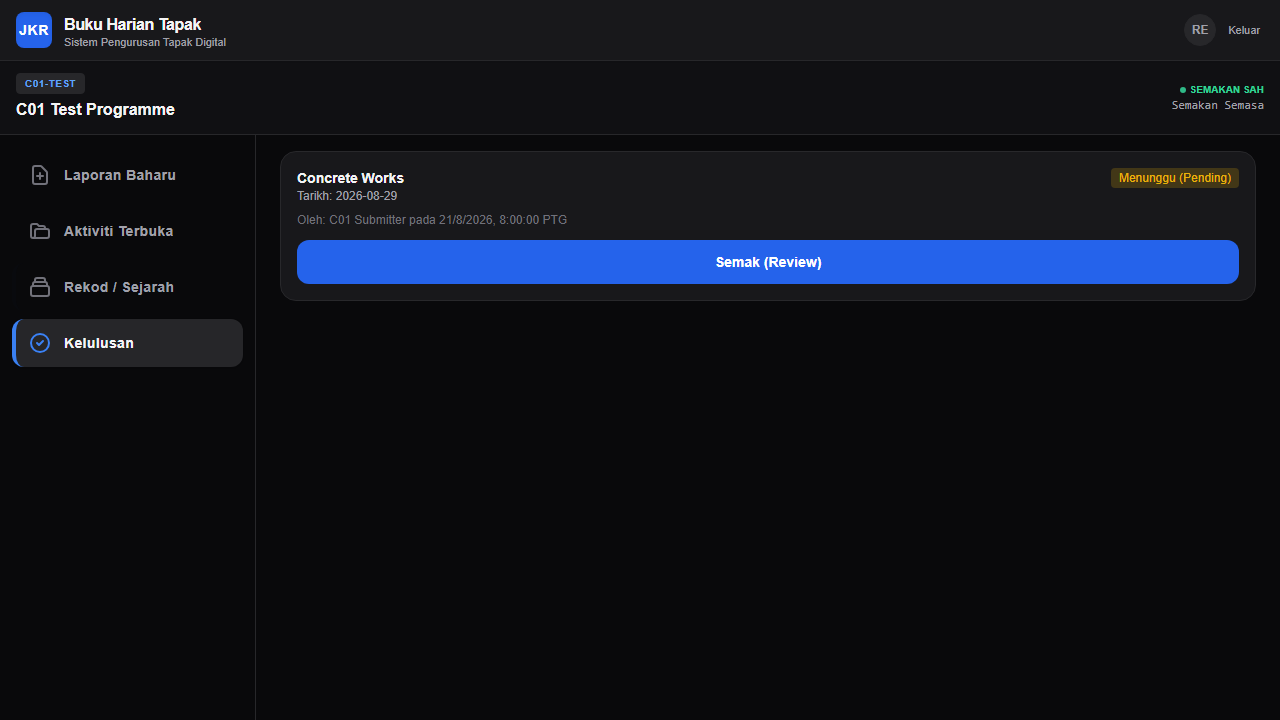
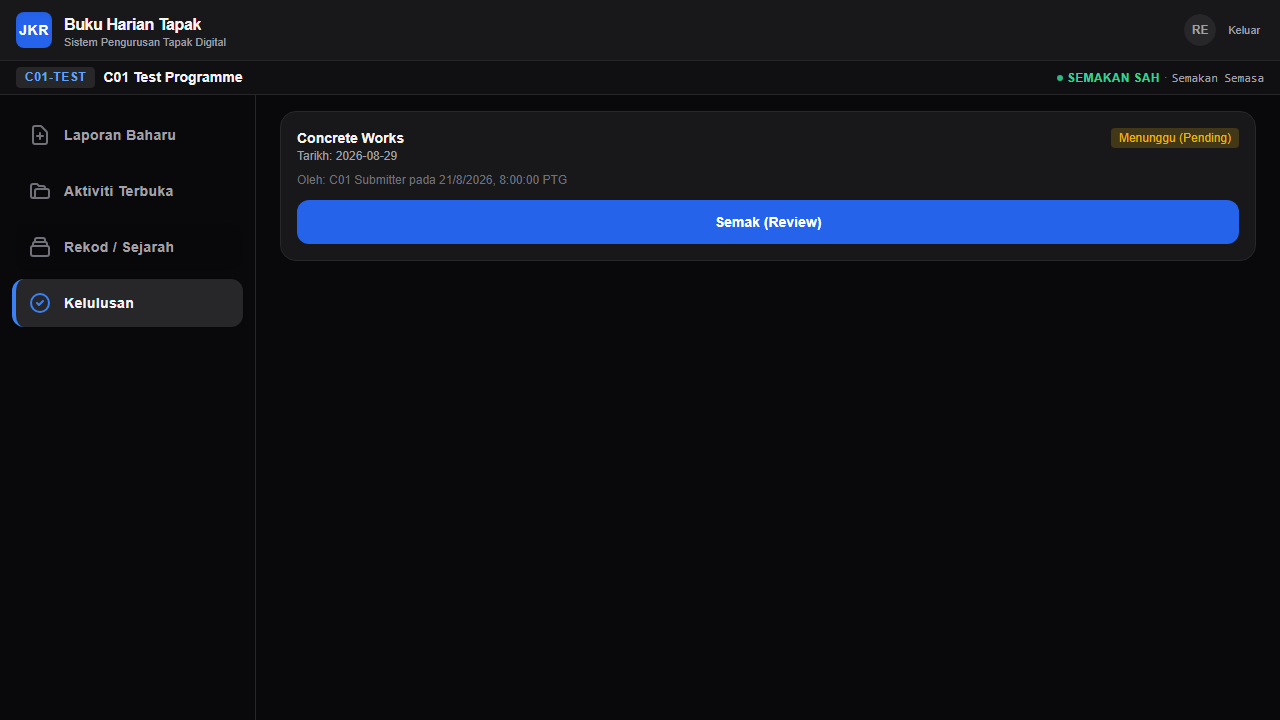
F4.5-B01B.1: refine tactical shell density and interaction states

Changed region(s): [[0.2188, 0.0917, 1.0, 0.3972], [0.0, 0.3056, 0.1875, 0.5194], [0.0, 0.0917, 0.1875, 0.275]]

diff --git a/src/app/site-diary/DailyEntryShell.tsx b/src/app/site-diary/DailyEntryShell.tsx
@@ -292,79 +292,61 @@ export default function DailyEntryShell({
 
         {/* Dynamic Project & Active Revision Context Header (when programme is selected) */}
         {programmeId && (
-          <div className="shrink-0 w-full bg-surface-primary/50 border-b border-surface-border px-4 py-3">
-            <div className="mx-auto w-full flex flex-col sm:flex-row sm:items-center justify-between gap-2.5">
-              <div className="min-w-0 flex-1">
-                <div className="flex items-center gap-2">
-                  <span className="text-[10px] font-bold uppercase tracking-wider text-tactical-state-pending bg-surface-raised border border-surface-border px-2 py-0.5 rounded">
-                    {programmeCode || 'Program Aktif'}
-                  </span>
-                  {availableProgrammes.length > 1 && (
-                    <button
-                      onClick={() => changeProgramme(null)}
-                      style={{ minHeight: 44 }}
-                      className="text-[10px] text-tactical-text-secondary hover:text-accent-operational underline transition-colors"
-                      title="Pilih projek lain"
-                    >
-                      Tukar Projek
-                    </button>
-                  )}
-                  {loading && (
-                    <span className="text-[11px] text-tactical-text-muted animate-pulse">
-                      Memuatkan...
-                    </span>
-                  )}
-                </div>
-                <h2 className="text-sm sm:text-base font-semibold text-tactical-text-primary truncate mt-1" title={programmeName || ''}>
+          <div className="shrink-0 w-full bg-surface-primary/50 border-b border-surface-border px-4 py-1.5">
+            <div className="mx-auto w-full flex flex-col sm:flex-row sm:items-center justify-between gap-1 sm:gap-2">
+              {/* Left: code + name on one tight row */}
+              <div className="min-w-0 flex-1 flex items-center gap-2 flex-wrap">
+                <span className="text-xs font-bold uppercase tracking-wider text-tactical-state-pending bg-surface-raised border border-surface-border px-2 py-0.5 rounded leading-tight shrink-0">
+                  {programmeCode || 'Program Aktif'}
+                </span>
+                <h2 className="text-sm font-semibold text-tactical-text-primary truncate leading-tight" title={programmeName || ''}>
                   {programmeName || 'Nama Program'}
                 </h2>
+                {availableProgrammes.length > 1 && (
+                  <button
+                    onClick={() => changeProgramme(null)}
+                    style={{ minHeight: 44 }}
+                    className="text-xs text-tactical-text-secondary hover:text-accent-operational underline transition-colors shrink-0"
+                    title="Pilih projek lain"
+                  >
+                    Tukar Projek
+                  </button>
+                )}
+                {loading && (
+                  <span className="text-xs text-tactical-text-muted animate-pulse">
+                    Memuatkan...
+                  </span>
+                )}
               </div>
 
-              {/* Authorised Revision badge */}
-              <div className="flex items-center gap-2 self-start sm:self-auto shrink-0">
-                <div className="flex flex-col items-start sm:items-end">
-                  {revisionState === 'RESOLVED' && revisionId && (
-                    <>
-                      <span className="text-[10px] uppercase font-bold text-tactical-state-valid flex items-center gap-1">
-                        <span className="w-1.5 h-1.5 rounded-full bg-tactical-state-valid animate-pulse"></span>
-                        Semakan Sah
-                      </span>
-                      <span className="text-xs font-mono text-tactical-text-secondary">Semakan Semasa</span>
-                    </>
-                  )}
-                  {revisionState === 'RESOLVING' && (
-                    <>
-                      <span className="text-[10px] uppercase font-bold text-tactical-text-secondary flex items-center gap-1">
-                        Memuatkan Semakan
-                      </span>
-                      <span className="text-xs font-mono text-tactical-text-muted animate-pulse">Sila tunggu...</span>
-                    </>
-                  )}
-                  {revisionState === 'UNAVAILABLE' && (
-                    <>
-                      <span className="text-[10px] uppercase font-bold text-tactical-text-muted flex items-center gap-1">
-                        Tidak Ditemui
-                      </span>
-                      <span className="text-xs font-mono text-tactical-text-muted">Tiada Semakan Sah</span>
-                    </>
-                  )}
-                  {revisionState === 'ERROR' && (
-                    <>
-                      <span className="text-[10px] uppercase font-bold text-tactical-state-destructive flex items-center gap-1">
-                        Ralat Semakan
-                      </span>
-                      <span className="text-xs font-mono text-tactical-state-destructive">Gagal Memuatkan</span>
-                    </>
-                  )}
-                  {revisionState === 'IDLE' && (
-                    <>
-                      <span className="text-[10px] uppercase font-bold text-tactical-text-muted flex items-center gap-1">
-                        Sedia
-                      </span>
-                      <span className="text-xs font-mono text-tactical-text-muted">-</span>
-                    </>
-                  )}
-                </div>
+              {/* Right: revision authority — always visible */}
+              <div className="shrink-0 flex items-center gap-1.5">
+                {revisionState === 'RESOLVED' && revisionId && (
+                  <span className="text-xs font-bold text-tactical-state-valid flex items-center gap-1">
+                    <span className="w-1.5 h-1.5 rounded-full bg-tactical-state-valid animate-pulse shrink-0"></span>
+                    <span className="uppercase tracking-wide">Semakan Sah</span>
+                    <span aria-hidden="true" className="text-tactical-text-muted font-normal">·</span>
+                    <span className="font-mono text-tactical-text-secondary font-normal">Semakan Semasa</span>
+                  </span>
+                )}
+                {revisionState === 'RESOLVING' && (
+                  <span className="text-xs font-bold text-tactical-text-secondary flex items-center gap-1">
+                    <span className="uppercase tracking-wide">Memuatkan Semakan</span>
+                  </span>
+                )}
+                {revisionState === 'UNAVAILABLE' && (
+                  <span className="text-xs font-bold text-tactical-text-muted flex items-center gap-1">
+                    <span className="uppercase tracking-wide">Tiada Semakan</span>
+                  </span>
+                )}
+                {revisionState === 'ERROR' && (
+                  <span className="text-xs font-bold text-tactical-state-destructive flex items-center gap-1">
+                    <span className="uppercase tracking-wide">Ralat Semakan</span>
+                  </span>
+                )}
+                {revisionState === 'IDLE' && (
+                  <span className="text-xs font-mono text-tactical-text-muted">—</span>
+                )}
               </div>
             </div>
           </div>

diff --git a/src/app/site-diary/DiaryManagementList.tsx b/src/app/site-diary/DiaryManagementList.tsx
@@ -215,8 +215,14 @@ export default function DiaryManagementList() {
   if (selectedDiary && programmeId) {
     return <div className="space-y-4">
       <div role="tablist" aria-label="Tukar konteks rekod dari butiran" className="grid grid-cols-2 gap-2 rounded-2xl border border-zinc-800 bg-zinc-900 p-2">
-        <button type="button" role="tab" aria-selected={viewMode === 'CURRENT'} onClick={chooseCurrent} className="min-h-[44px] rounded-xl bg-zinc-800 px-3 text-sm font-bold">Rekod Semasa</button>
-        <button type="button" role="tab" aria-selected={viewMode === 'HISTORY'} onClick={() => { setSelectedDiary(null); setViewMode('HISTORY'); }} className="min-h-[44px] rounded-xl bg-zinc-800 px-3 text-sm font-bold">Semakan Terdahulu</button>
+        <button type="button" role="tab" aria-selected={viewMode === 'CURRENT'} onClick={chooseCurrent}
+          className={`min-h-[44px] rounded-xl px-3 text-sm font-bold transition-colors ${viewMode === 'CURRENT' ? 'bg-accent-operational text-white' : 'bg-zinc-800 text-zinc-300'}`}>
+          Rekod Semasa
+        </button>
+        <button type="button" role="tab" aria-selected={viewMode === 'HISTORY'} onClick={() => { setSelectedDiary(null); setViewMode('HISTORY'); }}
+          className={`min-h-[44px] rounded-xl px-3 text-sm font-bold transition-colors ${viewMode === 'HISTORY' ? 'bg-accent-operational text-white' : 'bg-zinc-800 text-zinc-300'}`}>
+          Semakan Terdahulu
+        </button>
       </div>
       <DiaryDetail
         key={`${selectedDiary.siteDiaryId}-${detailRefresh}`}
@@ -233,12 +239,12 @@ export default function DiaryManagementList() {
       <div className="rounded-2xl border border-zinc-800 bg-zinc-900 p-4">
         <div role="tablist" aria-label="Konteks rekod" className="grid grid-cols-2 gap-2">
           <button type="button" role="tab" aria-selected={viewMode === 'CURRENT'} onClick={chooseCurrent}
-            className={`min-h-[44px] rounded-xl px-3 py-2 text-sm font-bold ${viewMode === 'CURRENT' ? 'bg-blue-600 text-white' : 'bg-zinc-800 text-zinc-300'}`}>
+            className={`min-h-[44px] rounded-xl px-3 py-2 text-sm font-bold transition-colors ${viewMode === 'CURRENT' ? 'bg-accent-operational text-white' : 'bg-zinc-800 text-zinc-300'}`}>
             Rekod Semasa
           </button>
           <button type="button" role="tab" aria-selected={viewMode === 'HISTORY'}
             onClick={() => { setSelectedDiary(null); setEditingSiteDiaryId(null); setViewMode('HISTORY'); }}
-            className={`min-h-[44px] rounded-xl px-3 py-2 text-sm font-bold ${viewMode === 'HISTORY' ? 'bg-amber-700 text-white' : 'bg-zinc-800 text-zinc-300'}`}>
+            className={`min-h-[44px] rounded-xl px-3 py-2 text-sm font-bold transition-colors ${viewMode === 'HISTORY' ? 'bg-accent-operational text-white' : 'bg-zinc-800 text-zinc-300'}`}>
             Semakan Terdahulu
           </button>
         </div>
@@ -352,7 +358,7 @@ export default function DiaryManagementList() {
             {viewMode === 'HISTORY' && selectedRevision && (
               <p className="mt-3 text-xs text-zinc-400">{revisionLabel(selectedRevision)} · {selectedRevision.revisionStatus}</p>
             )}
-            <p className="mt-3 text-[11px] text-zinc-500">Dikemaskini {formatTimestamp(diary.lastModifiedAt)}</p>
+            <p className="mt-3 text-xs text-zinc-500">Dikemaskini {formatTimestamp(diary.lastModifiedAt)}</p>
             <button type="button" onClick={() => setSelectedDiary(diary)}
               className="mt-3 min-h-[44px] w-full rounded-xl border border-zinc-700 px-3 text-sm font-bold text-blue-300">
               Lihat Butiran

diff --git a/src/app/site-diary/SiteDiaryWorkspace.tsx b/src/app/site-diary/SiteDiaryWorkspace.tsx
@@ -158,10 +158,10 @@ export default function SiteDiaryWorkspace() {
                 role="tab"
                 aria-selected={isSelected}
                 onClick={() => setTab(item.id)}
-                className={`w-full flex items-center p-3 rounded-xl transition-all duration-200 outline-none focus-visible:ring-2 focus-visible:ring-accent-selected ${
-                  isSelected 
-                    ? 'bg-surface-raised text-accent-selected border-l-4 border-accent-selected shadow-sm' 
-                    : 'text-tactical-text-secondary hover:bg-surface-primary hover:text-tactical-text-primary border-l-4 border-transparent'
+                className={`w-full flex items-center p-3 rounded-xl transition-all duration-200 outline-none focus-visible:ring-2 focus-visible:ring-accent-selected active:duration-75 ${
+                  isSelected
+                    ? 'bg-surface-raised text-accent-selected border-l-4 border-accent-selected shadow-sm active:bg-surface-interactive'
+                    : 'text-tactical-text-secondary hover:bg-surface-raised hover:text-tactical-text-primary border-l-4 border-transparent active:bg-surface-interactive'
                 }`}
                 title={item.label}
               >
@@ -198,14 +198,16 @@ export default function SiteDiaryWorkspace() {
                 role="tab"
                 aria-selected={isSelected}
                 onClick={() => setTab(item.id)}
-                className={`flex flex-col items-center justify-center flex-1 min-h-[56px] rounded-lg transition-all duration-200 ${
-                  isSelected ? 'text-accent-selected' : 'text-tactical-text-muted hover:text-tactical-text-secondary'
+                className={`flex flex-col items-center justify-center flex-1 min-h-[56px] rounded-lg transition-colors duration-150 motion-safe:active:scale-95 active:duration-75 ${
+                  isSelected
+                    ? 'bg-surface-raised text-accent-selected border-t-2 border-accent-selected'
+                    : 'text-tactical-text-muted hover:bg-surface-primary hover:text-tactical-text-secondary border-t-2 border-transparent'
                 }`}
               >
-                <div className={`mb-1 transition-transform ${isSelected ? 'scale-110' : ''}`}>
+                <div className={`mb-1 motion-safe:transition-transform motion-safe:duration-150 ${isSelected ? 'motion-safe:scale-110' : ''}`}>
                   {item.icon}
                 </div>
-                <span className={`text-[10px] font-bold tracking-tight ${isSelected ? 'text-tactical-text-primary' : ''}`}>
+                <span className={`text-xs font-bold tracking-tight ${isSelected ? 'text-tactical-text-primary' : ''}`}>
                   {item.label}
                 </span>
               </button>

diff --git a/F4.5-B01B-ADAPTIVE-TACTICAL-SHELL-REPORT.md b/F4.5-B01B-ADAPTIVE-TACTICAL-SHELL-REPORT.md
@@ -99,3 +99,59 @@ No database, migration, RLS/RBAC, Programme lifecycle, Activity/Site Diary mutat
 - `pnpm run verify`: PASS (140 test files, 1,141 tests, production build complete).
 - `git diff --check`: PASS.
 - HQ and Product Owner visual review: pending; no claim of aesthetic acceptance is made.
+
+---
+
+## B01B.1 Micro-Polish Refinement
+
+Authority: HQ approval 2026-08-30. Branch and PR #73 unchanged.
+
+Base for this pass: `f0724f3b03a087c9067774d965547b41897c2d4f`.
+
+### A. Chrome compression (`DailyEntryShell.tsx`)
+
+The Programme/revision context bar moved from a three-row mobile layout (code+Tukar / name / revision stacked) to a two-row layout (code+name on one tight row / revision authority on the second) within a tighter `py-1.5` container (previously `py-3`). On desktop the entire bar remains one inline row. The `flex-col sm:flex-row` strategy eliminates the vertical stacking that consumed excessive mobile height while keeping all authority text permanently visible — no hiding behind responsive classes.
+
+Revision state labels were upgraded from `text-[10px]` to `text-xs` (12 px) so critical operational authority is readable at field distances. The Programme code badge and "Tukar Projek" link were similarly upgraded. Tertiary decorative text ("Sistem Pengurusan Tapak Digital", "Keluar") was left at its existing size per HQ instruction that tertiary chrome must not fight compression.
+
+### B. Selection/status separation (`DiaryManagementList.tsx`)
+
+Both the primary tablist (always visible) and the secondary tablist (detail view) now use `bg-accent-operational` for the selected state on both `Rekod Semasa` and `Semakan Terdahulu`. The prior `bg-amber-700` on `Semakan Terdahulu` selected has been removed.
+
+Historical/superseded semantic meaning is preserved at the record level through the amber card border (`border-amber-800/70 bg-amber-950/20`) and the "Sejarah / Baca Sahaja" amber label on each historical record. SELECTION ≠ STATUS.
+
+The secondary tablist (previously always `bg-zinc-800` for both buttons with no selection state) now carries the same conditional class pattern as the primary tablist.
+
+### C. Tactile navigation states (`SiteDiaryWorkspace.tsx`)
+
+**Desktop rail**: hover upgraded from `hover:bg-surface-primary` (zinc-900 — barely visible on canvas) to `hover:bg-surface-raised` (zinc-800 — clearly distinguished). Active/press state added: `active:bg-surface-interactive` with `active:duration-75` for snappy depression feedback.
+
+**Mobile bottom navigation**: Selected buttons now carry `bg-surface-raised` surface fill plus `border-t-2 border-accent-selected` top-edge indicator — two complementary physicality cues on the button itself, no nested wrappers. Unselected hover gains `hover:bg-surface-primary`. Press feedback: `motion-safe:active:scale-95 active:duration-75`. Icon scale-up on selected is preserved and wrapped in `motion-safe:` for reduced-motion respect.
+
+No decorative container wrappers were added. All physicality comes from surface, edge, and press-depression on the existing button element.
+
+### D. Critical small-text readability
+
+Mobile nav labels upgraded from `text-[10px]` to `text-xs` (12 px) — the most critical single readability fix for field use. Revision state labels and Programme code badge upgraded similarly. Record card "Dikemaskini" timestamp upgraded from `text-[11px]` to `text-xs`. Tertiary chrome left unchanged.
+
+### Runtime evidence (B01B.1)
+
+Fresh captures under `docs/evidence/f4.5-b01b/`:
+
+- `mobile-shell-records-375x812.png` — compact 2-row chrome visible; blue "Rekod Semasa" tab selected; tactile bottom nav with blue top-edge indicator on "Rekod / Sejarah"; nav labels readable at 12 px.
+- `mobile-shell-new-entry-375x812.png` — consistent chrome; blue top-edge indicator on "Laporan Baharu".
+- `desktop-shell-records-1280x720.png` — single-row inline chrome bar; "Rekod Semasa" selected in blue; stronger hover surface on rail.
+- `desktop-shell-approval-1280x720.png` — chrome bar compact; "Kelulusan" selected in blue; amber "Menunggu (Pending)" badge semantic status preserved.
+- `desktop-shell-history-1280x720.png` — "Semakan Terdahulu" selected in **blue** (not amber); historical amber preserved at card border and "Sejarah / Baca Sahaja" label level only. SELECTION ≠ STATUS confirmed.
+
+SHA-256 hashes:
[2 lines of base64/hex data omitted]
+
+### Final gates (B01B.1)
+
+- `pnpm run verify`: PASS (140 test files, 1,141 tests, production build complete).
+- `git diff --check`: PASS.
+- No test changes were required — existing semantic assertions (aria-selected, tab reachability ≥ 44 px, nav count) are unaffected by colour and size changes.
+- HQ and Product Owner visual review: pending.
+
